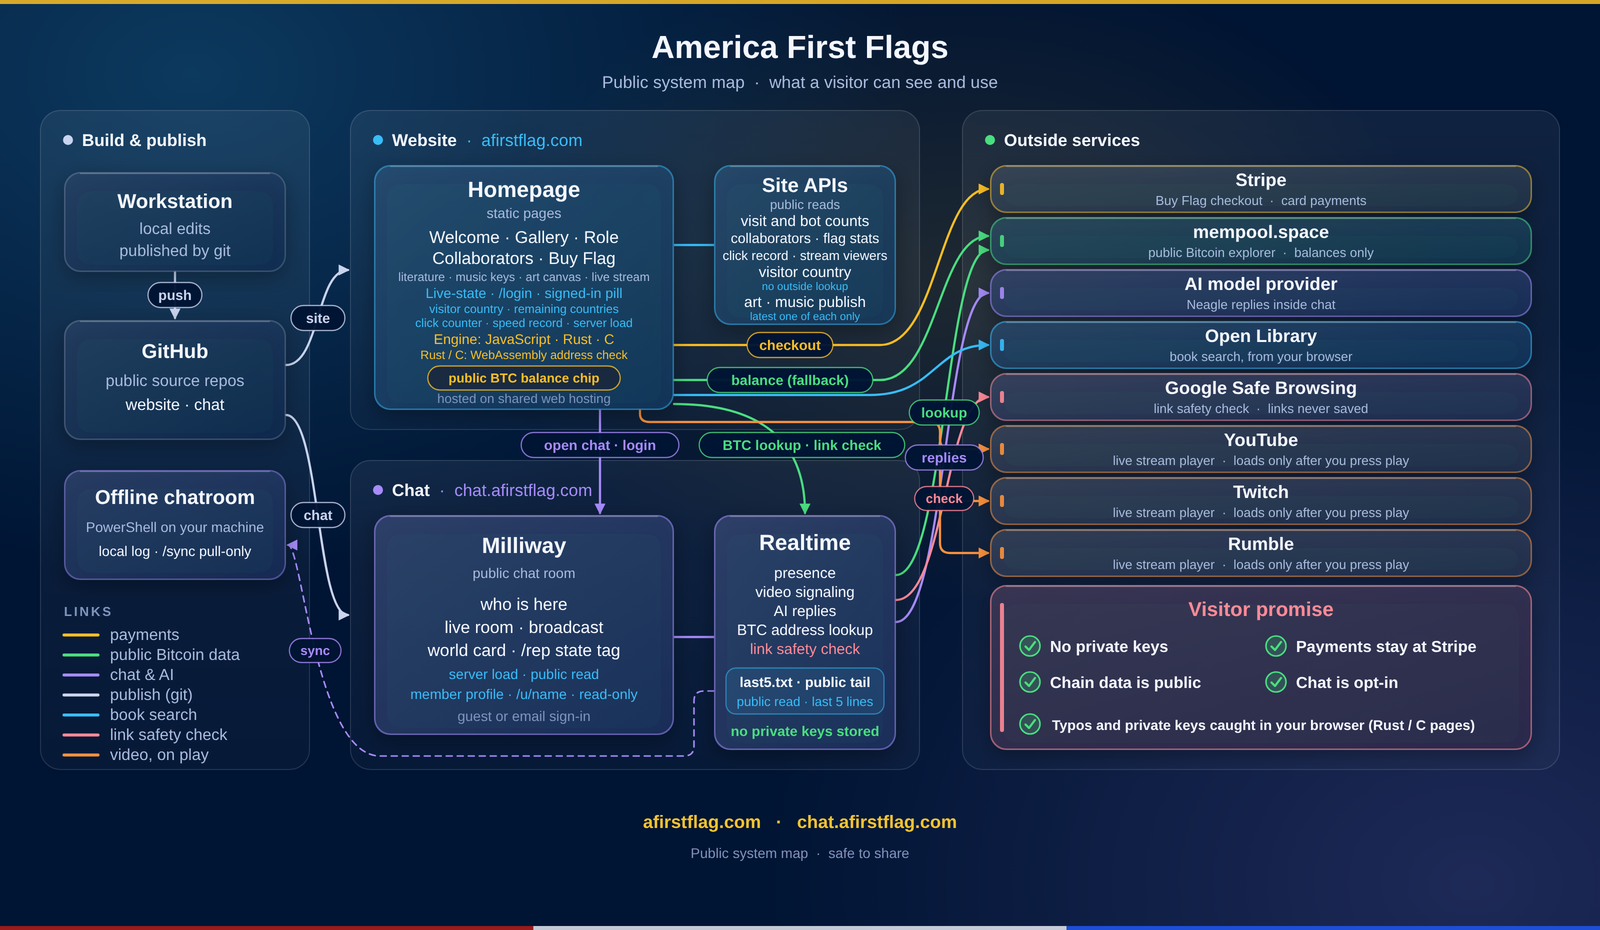
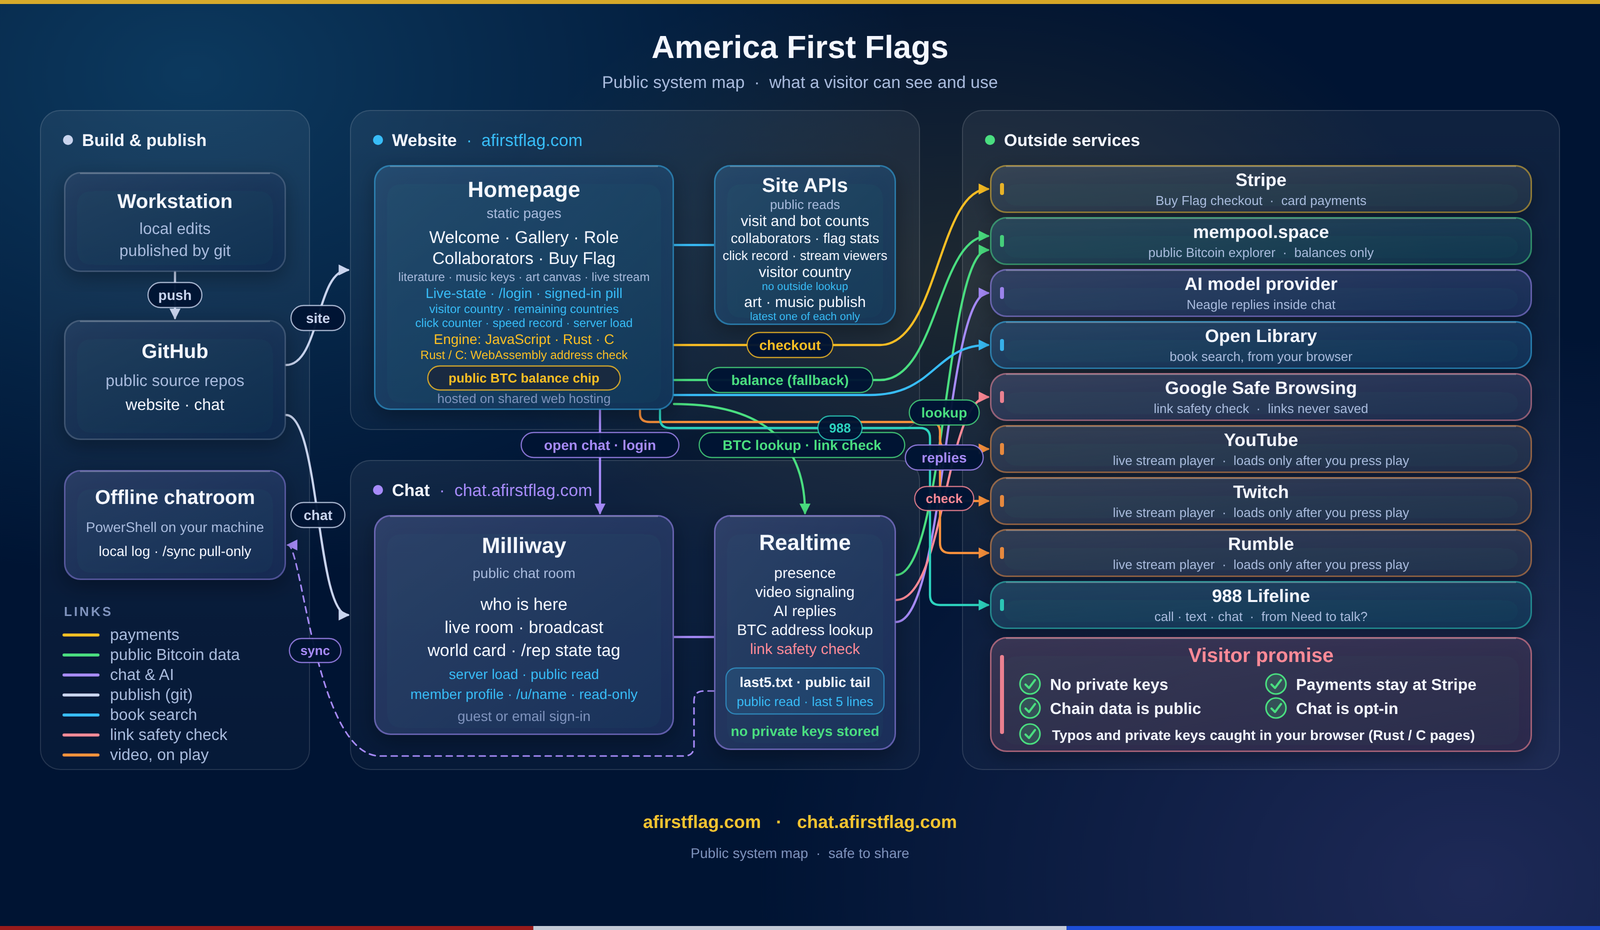
CHG-128: Need to talk? support entry (Shop)

Changed region(s): [[0.5625, 0.6237, 0.9688, 0.8108], [0.4062, 0.4366, 0.5625, 0.4677]]

diff --git a/index.html b/index.html
@@ -781,6 +781,25 @@
     .qsc-x { margin-top: 0; font-size: 18px; padding: 8px 16px; }
     .qsc-dialog :focus-visible, .qsc-open:focus-visible { outline: 3px solid #ffbf00; outline-offset: 2px; }
 
+    /* CHG-128: Need to talk? (button directly above SPEECHROOM in the chat window; modal <dialog> built like the
+       Quick Safety Check one: Close, Esc, focus return, large text, no inline handlers). */
+    .ntt-dialog .qsc-card { font-size: 20px; }
+    .ntt-lead { font-size: 24px; font-weight: 800; line-height: 1.35; margin: 0 0 14px; }
+    .ntt-actions { display: flex; flex-direction: column; gap: 12px; margin: 0 0 14px; }
+    .ntt-action {
+      display: block; text-align: center; text-decoration: none; font-size: 24px; font-weight: 800;
+      padding: 16px 18px; border-radius: 12px; border: 2px solid #0b3d91; background: #0b3d91; color: #ffffff;
+    }
+    .ntt-action:hover { background: #082c69; }
+    .ntt-911 { font-size: 21px; font-weight: 700; margin: 0 0 6px; }
+    .ntt-community { border-top: 2px solid #d9d9d9; margin-top: 18px; padding-top: 4px; }
+    .ntt-community p { margin: 0 0 12px; }
+    .ntt-join {
+      display: inline-block; text-decoration: none; font-size: 20px; font-weight: 700; padding: 10px 18px;
+      border-radius: 10px; border: 2px solid #111111; background: #ffffff; color: #111111;
+    }
+    .ntt-dialog :focus-visible { outline: 3px solid #ffbf00; outline-offset: 2px; }
+
     /* CHG-088: Literature drawer (book search, Open Library, from the browser) */
     .lit-wrap {
       flex-shrink: 0;
@@ -1848,10 +1867,10 @@
       </button>
       <div class="drawer-body" id="how-panel">
         <p class="how-lede">Public system map: what a visitor can see and use. Tap the map to open it full size.</p>
-        <a class="how-map" href="/images/architecture-public.png?v=125" target="_blank" rel="noopener">
+        <a class="how-map" href="/images/architecture-public.png?v=128" target="_blank" rel="noopener">
           <picture>
-            <source srcset="/images/architecture-public.webp?v=125" type="image/webp">
-            <img src="/images/architecture-public.png?v=125" width="1600" height="930" loading="lazy" decoding="async" alt="Public system map of America First Flags (rev 19). The website, afirstflag.com, serves the homepage sections (welcome, gallery, role, collaborators, and Buy Flag, plus a public BTC balance chip) and site APIs for visit and bot counts, collaborators, flag stats, the click speed record, art publish, music publish, stream viewers, and the visitor country (looked up on the site, no outside lookup). The chat, chat.afirstflag.com, is the Milliway public chat room with realtime presence, video signaling, AI replies, BTC address lookup, and a link safety check, and stores no private keys. Each registered chat member also has a read-only public profile page on the chat (chat.afirstflag.com/u/name) that shows only the username, the Member tier, and the join date. Outside services: Stripe for Buy Flag checkout and card payments, mempool.space as the public Bitcoin explorer for balances only, an AI model provider for Neagle replies inside chat, Google Safe Browsing for the link safety check, and YouTube, Twitch, and Rumble as live stream players (they load only after you press play). Both sites are published from a workstation through public GitHub repos. Visitor promise: no private keys, payments stay at Stripe, chain data is public, chat is opt-in. The homepage Live-state panel has a /login command that opens chat sign-in. The chat publishes a public tail of the last 5 public chat lines (last5.txt), and an offline chatroom on the owner's machine pulls that tail with /sync. The Live-state panel also shows a signed-in pill, and signed-in chat members can add a state tag with /rep. The Live-state panel also has an Engine row (Run page in JavaScript, Rust, or C); the Rust and C pages check Bitcoin addresses in the visitor's browser with WebAssembly before any lookup is sent, so typos and private keys are caught there on those pages. The Live-state panel also has a click counter that stays in the visitor's browser (browser-local storage); its best click speed runs can set a site-wide click speed record kept by the site APIs, and the Buy Flag window rotates its cards while open. The Live-state panel also shows a visitor country pill with a flag, found from the visitor's IP address in a database kept on the site, so the address is not sent to any outside service. A remaining countries pill shows how many countries no visitor has come from yet. The Live-state panel also shows the chat server load, read from a public read-only feed on the chat. The homepage also has a literature search: the visitor's browser asks Open Library, an outside book catalog, for books matching a title. The homepage also has a music keyboard that plays notes in the visitor's browser, with no outside requests. The homepage also has an art canvas: visitors draw in their browser, and can publish one drawing that replaces the previous one. Visitors can also publish one music recording that replaces the previous one. The homepage also has a Live Stream drawer: visitors can play a YouTube, Twitch, or Rumble stream, each loading only after they press play. The Live Stream drawer shows how many site visitors are watching each stream, counted on the site only.">
+            <source srcset="/images/architecture-public.webp?v=128" type="image/webp">
+            <img src="/images/architecture-public.png?v=128" width="1600" height="930" loading="lazy" decoding="async" alt="Public system map of America First Flags (rev 20). The website, afirstflag.com, serves the homepage sections (welcome, gallery, role, collaborators, and Buy Flag, plus a public BTC balance chip) and site APIs for visit and bot counts, collaborators, flag stats, the click speed record, art publish, music publish, stream viewers, and the visitor country (looked up on the site, no outside lookup). The chat, chat.afirstflag.com, is the Milliway public chat room with realtime presence, video signaling, AI replies, BTC address lookup, and a link safety check, and stores no private keys. Each registered chat member also has a read-only public profile page on the chat (chat.afirstflag.com/u/name) that shows only the username, the Member tier, and the join date. Outside services: Stripe for Buy Flag checkout and card payments, mempool.space as the public Bitcoin explorer for balances only, an AI model provider for Neagle replies inside chat, Google Safe Browsing for the link safety check, and YouTube, Twitch, and Rumble as live stream players (they load only after you press play). Both sites are published from a workstation through public GitHub repos. Visitor promise: no private keys, payments stay at Stripe, chain data is public, chat is opt-in. The homepage Live-state panel has a /login command that opens chat sign-in. The chat publishes a public tail of the last 5 public chat lines (last5.txt), and an offline chatroom on the owner's machine pulls that tail with /sync. The Live-state panel also shows a signed-in pill, and signed-in chat members can add a state tag with /rep. The Live-state panel also has an Engine row (Run page in JavaScript, Rust, or C); the Rust and C pages check Bitcoin addresses in the visitor's browser with WebAssembly before any lookup is sent, so typos and private keys are caught there on those pages. The Live-state panel also has a click counter that stays in the visitor's browser (browser-local storage); its best click speed runs can set a site-wide click speed record kept by the site APIs, and the Buy Flag window rotates its cards while open. The Live-state panel also shows a visitor country pill with a flag, found from the visitor's IP address in a database kept on the site, so the address is not sent to any outside service. A remaining countries pill shows how many countries no visitor has come from yet. The Live-state panel also shows the chat server load, read from a public read-only feed on the chat. The homepage also has a literature search: the visitor's browser asks Open Library, an outside book catalog, for books matching a title. The homepage also has a music keyboard that plays notes in the visitor's browser, with no outside requests. The homepage also has an art canvas: visitors draw in their browser, and can publish one drawing that replaces the previous one. Visitors can also publish one music recording that replaces the previous one. The homepage also has a Live Stream drawer: visitors can play a YouTube, Twitch, or Rumble stream, each loading only after they press play. The Live Stream drawer shows how many site visitors are watching each stream, counted on the site only. The homepage also has a Need to talk? button that links to the 988 Suicide &amp; Crisis Lifeline, an outside service, to call, text, or chat, and can open the public Milliway chat, where Neagle greets the visitor publicly.">
           </picture>
         </a>
       </div>
@@ -1920,6 +1939,14 @@
           </ul>
         </div>
         <div class="window-cta">
+          <button type="button" class="btn" id="ntt-toggle" aria-haspopup="dialog" aria-controls="ntt-dialog">Need to talk?</button>
+          <dialog class="qsc-dialog ntt-dialog" id="ntt-dialog" aria-labelledby="ntt-title">
+            <div class="qsc-head">
+              <h2 id="ntt-title">Need to talk?</h2>
+              <button type="button" class="qsc-x" id="ntt-x">Close</button>
+            </div>
+            <div class="qsc-card" id="ntt-body"></div>
+          </dialog>
           <a class="btn" id="speechroom-btn" href="https://chat.afirstflag.com/" target="_blank" rel="noopener">SPEECHROOM</a>
         </div>
       </section>
@@ -5634,6 +5661,55 @@
       if (xbtn) xbtn.addEventListener("click", closeDlg);
       dlg.addEventListener("close", function () { btn.focus(); });
       if (again) again.addEventListener("click", run);
+    })();
+  </script>
+  <script>
+    /* CHG-128: Need to talk? (free suicide-prevention support entry). Button above SPEECHROOM opens a modal <dialog>;
+       988 links go to the national 988 Suicide & Crisis Lifeline; Join Milliway opens the public chat with ?support=1
+       (same new-tab link as SPEECHROOM) so Neagle greets the visitor publicly. No requests, no storage, textContent only. */
+    (function () {
+      var dlg = document.getElementById("ntt-dialog");
+      var btn = document.getElementById("ntt-toggle");
+      var xbtn = document.getElementById("ntt-x");
+      var body = document.getElementById("ntt-body");
+      if (!dlg || !btn || !body) return;
+      function el(tag, cls, text) {
+        var e = document.createElement(tag);
+        if (cls) e.className = cls;
+        if (text != null) e.textContent = text;
+        return e;
+      }
+      function link(cls, id, href, text, newTab) {
+        var a = el("a", cls, text);
+        a.id = id;
+        a.href = href;
+        if (newTab) { a.target = "_blank"; a.rel = "noopener"; }
+        return a;
+      }
+      var frag = document.createDocumentFragment();
+      frag.appendChild(el("p", "ntt-lead", "If you are thinking about suicide or are in crisis, you are not alone."));
+      var acts = el("div", "ntt-actions");
+      acts.appendChild(link("ntt-action", "ntt-call", "tel:988", "Call 988"));
+      acts.appendChild(link("ntt-action", "ntt-text", "sms:988", "Text 988"));
+      acts.appendChild(link("ntt-action", "ntt-chat", "https://988lifeline.org/chat/", "Chat with 988", true));
+      frag.appendChild(acts);
+      frag.appendChild(el("p", "ntt-911", "If you are in immediate danger, call 911."));
+      var com = el("section", "ntt-community");
+      com.setAttribute("aria-labelledby", "ntt-community-title");
+      var h = el("h3", null, "Talk with our community");
+      h.id = "ntt-community-title";
+      com.appendChild(h);
+      com.appendChild(el("p", null, "Milliway is a public chat room. Everyone in the room, including Neagle, our AI helper, will see what you write. Neagle is not a counselor."));
+      com.appendChild(link("ntt-join", "ntt-join", "https://chat.afirstflag.com/?support=1", "Join Milliway", true));
+      frag.appendChild(com);
+      body.appendChild(frag);
+      function closeDlg() { if (dlg.open) dlg.close(); }
+      btn.addEventListener("click", function () {
+        if (dlg.open) { closeDlg(); return; }
+        if (typeof dlg.showModal === "function") dlg.showModal(); else dlg.setAttribute("open", "");
+      });
+      if (xbtn) xbtn.addEventListener("click", closeDlg);
+      dlg.addEventListener("close", function () { btn.focus(); });
     })();
   </script>
 </body>

diff --git a/privacy/index.html b/privacy/index.html
@@ -101,6 +101,10 @@
 <div><h3>Quick Safety Check</h3></div>
 <p>The Quick Safety Check button on our homepage runs entirely in your browser. It looks only at information your browser already has (whether the page is secure, your browser version, whether cookies are on, and whether your device is online). Nothing is sent to us or to anyone else, and nothing is stored.</p>
 
+<div><h3>Need to talk?</h3></div>
+<p>The Need to talk? button on our homepage opens a small window with free crisis support. The Call 988, Text 988, and Chat with 988 links go to the national 988 Suicide &amp; Crisis Lifeline (call or text 988, or chat at 988lifeline.org). They are handled by your phone or by the Lifeline, not by us, and we do not see or record that you used them. Opening the window sends nothing to us and stores nothing.</p>
+<p>Join Milliway opens our public chat room on chat.afirstflag.com. Milliway is public: everyone in the room, including Neagle, our AI helper, sees what you write, and Neagle greets you publicly by your chat name. Neagle is not a counselor. Like every Neagle reply, Neagle's replies to you are written by an outside AI model provider, which receives your chat name and the line you wrote. Nothing extra is stored: the chat only remembers, in memory for as long as you are connected, that you came in through Need to talk?, and to prevent spam it counts these greetings per visitor for an hour in memory, without storing your IP address.</p>
+
 <div><h3>Profile pages</h3></div>
 <p>Registered members of our chat room have a read-only public profile page on chat.afirstflag.com (for example chat.afirstflag.com/u/name). Profile pages live only on chat.afirstflag.com, not on this site.</p>
 <p>A profile page shows only three things: the member's username, the tier (Member), and the date the member joined (the day only). Nothing else is shown: no email address, no state or location, no messages, no sign-in codes or tokens, and no other account details. Profiles cannot be edited and have no bio. Guests and unfinished sign-ups have no profile page, and a name that does not meet our current naming rules is not shown.</p>
